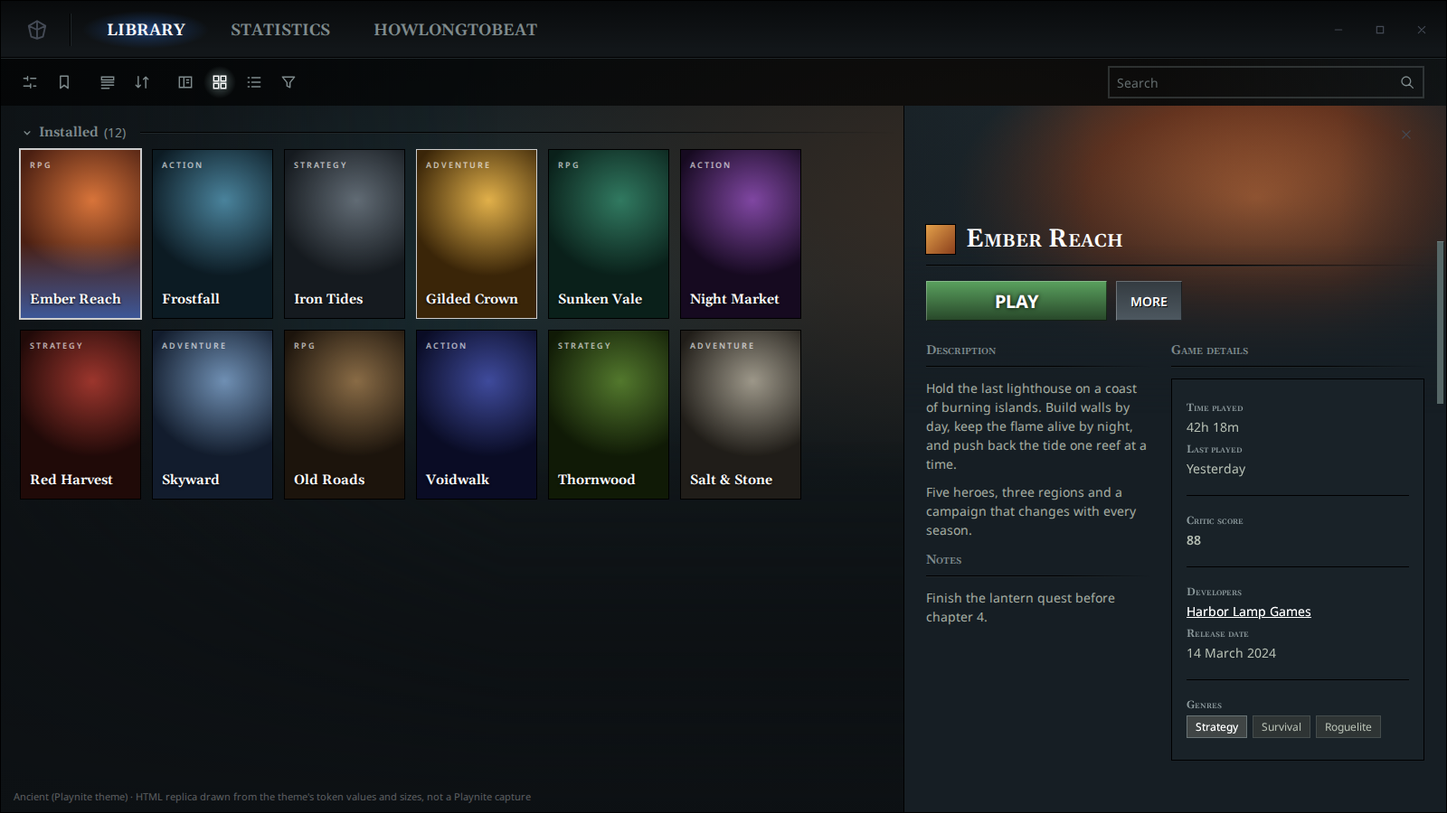
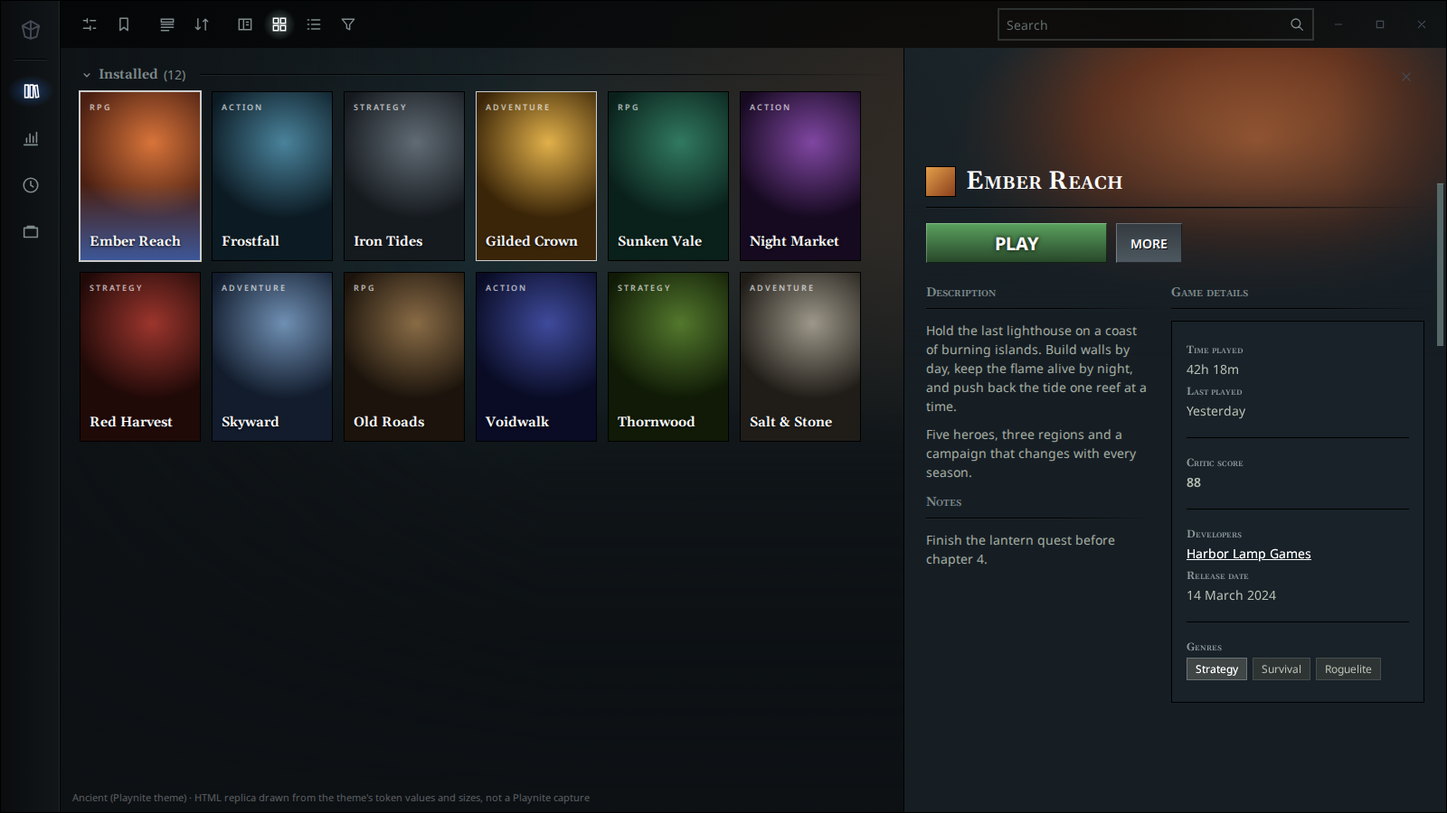
Put navigation on the left rail for Ancient and Uplink, add repo rule
- Repo rule (AGENTS.md, themes AGENTS.md, theme-dev skill): themes are
  designed for Playnite's default Sidebar position, Left; top/bottom are
  fallbacks and no theme asks users to move the sidebar
- Ancient and Uplink: left rail is now the intended layout in docs,
  listings and README; Ancient shell comments and grid preview updated

Claude-Session: https://claude.ai/code/session_015JUQFYYYRQcKnHXKVAwwSc

diff --git a/src/themes/Ancient/src/Views/Sidebar.xaml b/src/themes/Ancient/src/Views/Sidebar.xaml
@@ -1,11 +1,12 @@
 <!--
     Overlay on Playnite Default/Views/Sidebar.xaml.
-    The Dota 2 dashboard top bar ([CSS] dashboard.css #TopBar, #TopBarMainContent, #TopBarMainNav). Intended layout:
-    Sidebar position = Top. Then it is a 64px band across the window (the game's tabs are 60px): the slate bar
-    (ShellBackgroundBrush) shading darker toward its top, a paired rule under it (1px black, 1px faint light, as the
-    game's #VerticalSeparator), the home button at the left, a paired vertical separator, then the tabs
-    (SidebarItem.xaml). 146px on the right stay clear for the caption buttons.
-    Left and right make a 64px icon rail with the same slate; bottom is a strip.
+    The Dota 2 dashboard top bar ([CSS] dashboard.css #TopBar, #TopBarMainContent, #TopBarMainNav) turned on its side:
+    navigation lives on the left (repo rule, Playnite's default Sidebar position). A 64px rail in the top bar's slate
+    (ShellBackgroundBrush) shading darker toward the window edge, a paired rule on the library side (1px black, 1px
+    faint light, as the game's #VerticalSeparator), the home button at the top, the separator under it, then the
+    items (SidebarItem.xaml) with the game's blue glow behind the current one.
+    Fallbacks: right mirrors the rail; top and bottom make the game's horizontal bar with uppercase tabs (146px kept
+    clear for the caption buttons at the top).
     PART_ElemMainMenu and PART_PanelSideBarItems are Playnite's parts.
 -->
 <ResourceDictionary xmlns="http://schemas.microsoft.com/winfx/2006/xaml/presentation"

diff --git a/src/themes/Ancient/src/CustomControls/SidebarItem.xaml b/src/themes/Ancient/src/CustomControls/SidebarItem.xaml
@@ -1,13 +1,14 @@
 <!--
     Overlay on Playnite Default/CustomControls/SidebarItem.xaml.
-    A top bar tab of the Dota 2 dashboard ([CSS] dashboard.css .TopBarMenuItem):
-    - Top or bottom bar: the title only, uppercase in the title font, 18px semibold ([CSS] font-size 18px,
+    A top bar tab of the Dota 2 dashboard ([CSS] dashboard.css .TopBarMenuItem), on the left rail:
+    - Left or right rail (the intended layout): icon only, 64x52, muted at rest ([CSS] #777f88), white on hover,
+      white over the blue glow when current; the title is the tooltip.
+    - Top or bottom bar (fallback): the title only, uppercase in the title font, 18px semibold ([CSS] font-size 18px,
       font-family titleFont, font-weight semi-bold, text-transform uppercase), centered in a cell at least 140px wide
       ([CSS] #TopBarHeroes width 164px) with 24px either side. Muted grey at rest ([CSS] color #777f88: TextBrushDarker);
       white under the pointer ([CSS] :hover color white); white with a blue glow behind it when current
       ([CSS] :selected text-shadow 0 0 20px #3382ff: SidebarItemSelectedGlowBrush as a radial wash, since WPF text
       has no glow). No dividers, no underline: the game marks the current tab by the glow alone.
-    - Left or right rail: icon only, 64x52, the same glow behind the icon; the title is the tooltip.
     Library and Statistics get this theme's icons; add-on items keep their own icon. PART_ProgressStatus is a 2px bar
     along the edge facing the library.
 -->

diff --git a/src/themes/Ancient/src/Views/TopPanel.xaml b/src/themes/Ancient/src/Views/TopPanel.xaml
@@ -4,8 +4,8 @@
     #TopBarSearchContainer): a 52px black band (TopPanelBackgroundBrush, [CSS] #000000aa) that thins out toward the
     right. Playnite's view, sort, group and filter buttons are icons in the strip's muted teal-grey at the left, where
     the game puts its secondary tabs; the search box sits at the right like the game's (350px, [CSS] #TopBarSearchBox).
-    While the sidebar is not at the top this is the topmost bar, so 146px stay clear on the right for the caption
-    buttons. The main menu button shows here only while the sidebar is hidden. All PART_ names are Playnite's.
+    With the sidebar on the left (the intended layout) this is the topmost bar, so 146px stay clear on the right for
+    the caption buttons. The main menu button shows here only while the sidebar is hidden. All PART_ names are Playnite's.
 -->
 <ResourceDictionary xmlns="http://schemas.microsoft.com/winfx/2006/xaml/presentation"
                     xmlns:x="http://schemas.microsoft.com/winfx/2006/xaml">

diff --git a/src/themes/Ancient/src/DerivedStyles/MainWindowStyle.xaml b/src/themes/Ancient/src/DerivedStyles/MainWindowStyle.xaml
@@ -1,7 +1,7 @@
 <!--
     Overlay on Playnite Default/DerivedStyles/MainWindowStyle.xaml (the main window only).
-    Playnite's template with square caption buttons in the top right corner, over whichever bar is topmost (the 64px
-    top bar with the sidebar at the top, else the 52px strip; both keep 146px clear): 46x40, line icons in the gear
+    Playnite's template with square caption buttons in the top right corner of the 52px strip (the topmost bar with
+    the sidebar on the left; the 64px bar in the top fallback; both keep 146px clear): 46x40, line icons in the gear
     grey of the dashboard's top bar buttons ([CSS] #DOTASettingsButton #444a55, hover #9999aa: TextBrushDarker, then
     TextBrush), the game's GC-warning red behind close on hover.
 -->

diff --git a/src/themes/Ancient/AGENTS.md b/src/themes/Ancient/AGENTS.md
@@ -6,7 +6,7 @@ Playnite **Desktop** theme (`ThemeApiVersion` 2.9.0, Playnite 10.45+) after the 
 
 Shared anatomy (file map, shell rules, game page skeleton, metadata pane, build and first-run checks): **`../AGENTS.md`**. Loading rules and build checks: **`.claude/skills/playnite-theme-dev/reference.md`**.
 
-**Intended layout: Settings → Appearance → Layout → Sidebar position = Top.** The sidebar becomes the dashboard's top bar. Left, right and bottom still work (an icon rail, or a bottom strip).
+**Intended layout: the sidebar on the left** (Playnite's default; repo rule): the dashboard's top bar turned into a 64px rail. Right mirrors it; top and bottom still draw the game's horizontal bar with uppercase tabs as a fallback.
 
 ## Sources
 
@@ -72,11 +72,11 @@ Keys this theme added to `scripts/data/theme-keys.json`: **`BevelLightBrush`**, 
 
 | File | Behavior |
 |------|----------|
-| `Views/Sidebar.xaml` | **Top:** the top bar, 64px, slate shaded darker at the top, paired rule under it (black then faint light); home button (`MainMenuButton`, keystone glyph in the gear grey, lighter on hover), the game's paired vertical separator, then the tabs; 146px clear for caption buttons. **Left/right:** 64px icon rail, shade running sideways. **Bottom:** strip. |
-| `CustomControls/SidebarItem.xaml` | **Top/bottom:** title only, uppercase via `StringToUpperCaseConverter`, title font 18px semibold, min 140px wide, 24px either side; muted at rest, white on hover, white over a radial `#3382ff` glow when current. No dividers or underline, like the game. **Rails:** icon only, 64x52, same glow. |
-| `Views/TopPanel.xaml` | The black secondary strip, 52px, fading from full to 40% at the right; view, group, sort and filter icons at the left in the muted grey (white on hover and when on, a faint teal-grey glow behind toggled ones); notifications and a 350px search box at the right. Keeps 146px clear only when it is the topmost bar. |
+| `Views/Sidebar.xaml` | **Left (intended):** a 64px rail in the top bar's slate, shaded darker toward the window edge, paired rule on the library side; home button at the top, the paired separator under it, then the items. **Right:** mirrored. **Top (fallback):** the top bar, 64px, slate shaded darker at the top, paired rule under it (black then faint light); home button (`MainMenuButton`, keystone glyph in the gear grey, lighter on hover), the game's paired vertical separator, then the tabs; 146px clear for caption buttons. **Bottom:** strip. |
+| `CustomControls/SidebarItem.xaml` | **Rails (intended):** icon only, 64x52, muted at rest, white on hover, white over the blue glow when current; title as tooltip. **Top/bottom (fallback):** title only, uppercase via `StringToUpperCaseConverter`, title font 18px semibold, min 140px wide, 24px either side; muted at rest, white on hover, white over a radial `#3382ff` glow when current. No dividers or underline, like the game. |
+| `Views/TopPanel.xaml` | The black secondary strip, 52px, fading from full to 40% at the right; view, group, sort and filter icons at the left in the muted grey (white on hover and when on, a faint teal-grey glow behind toggled ones); notifications and a 350px search box at the right. Keeps 146px clear for the caption buttons when it is the topmost bar (the intended left-rail layout). |
 | `Views/Library.xaml` | The game's background art fills the whole library layer, the strip included (like the dashboard scene behind its bars), faded left and down, dimmed, and a radial vignette in the layer's brush. |
-| `DerivedStyles/MainWindowStyle.xaml` | Caption buttons 46x40 in the gear grey, 12px from the top with the sidebar at the top (centred on the 64px bar), red close hover. |
+| `DerivedStyles/MainWindowStyle.xaml` | Caption buttons 46x40 in the gear grey, centred on the 52px strip (12px from the top in the top-bar fallback), red close hover. |
 | `Views/FilterPanelView.xaml`, `ExplorerPanel.xaml` | Playnite's panels on the chat-panel slate so they read over the art. |
 
 ## Game page
@@ -117,4 +117,4 @@ Follows the shared skeleton, generated by `art/overview.py` (edit it, then rerun
 
 **Never loaded in Playnite.** Built on Linux: `build-theme.ps1` and `validate-extension.ps1` pass (static checks), but WPF never parsed it. `art/preview-grid.png` is an HTML replica of the grid view drawn with the same token values and sizes and rendered in Chromium, not a Playnite capture. Take real screenshots (`info/screenshots/`) before a database PR.
 
-First run, most likely to need a fix: the uppercase converter on sidebar titles; the tab glow at the top and bottom positions; the black strip over the art (Library puts `TopPanel` inside the art grid); caption buttons over the 64px bar; `BevelTemplate` shading at small heights; the checked tick box ring and halo; and every `[eye]` value in `tokens.css`.
+First run, most likely to need a fix: the rail glow behind the current item; the uppercase converter and tab glow in the top/bottom fallback; the black strip over the art (Library puts `TopPanel` inside the art grid); caption buttons over the 64px bar; `BevelTemplate` shading at small heights; the checked tick box ring and halo; and every `[eye]` value in `tokens.css`.

diff --git a/src/themes/Uplink/AGENTS.md b/src/themes/Uplink/AGENTS.md
@@ -6,7 +6,7 @@ Playnite **Desktop** theme (`ThemeApiVersion` 2.9.0, Playnite 10.45+) taking ins
 
 Shared anatomy (file map, shell rules, game page skeleton, metadata pane, build and first-run checks): **`../AGENTS.md`**. Loading rules and build checks: **`.claude/skills/playnite-theme-dev/reference.md`**.
 
-**Intended layout: Settings → Appearance → Layout → Sidebar position = Top.** That turns the sidebar into the game's navigation bar. Left, right and bottom still work (an icon rail, or a bottom strip).
+**Intended layout: the sidebar on the left** (Playnite's default; repo rule): a 56px navigation rail with the glow and lit line on the current item. Right mirrors it; top and bottom still draw the game's horizontal navigation bar as a fallback.
 
 ## Sources
 
@@ -64,10 +64,10 @@ New shared key this theme added to `scripts/data/theme-keys.json`: **`ChamferTem
 
 | File | Behavior |
 |------|----------|
-| `Views/Sidebar.xaml` | **Top:** the navigation bar, 56px, `ShellBackgroundBrush` with the glow rising toward the 1px bottom line; the home button (`MainMenuButton`, `PART_ElemMainMenu`, 56px plate with a hexagon mark) boxed at the left; 146px kept clear for the caption buttons. **Left/right:** a 56px rail with the same glow running sideways. **Bottom:** a strip. |
+| `Views/Sidebar.xaml` | **Left (intended):** a 56px rail, the glow running sideways, home button at the top. **Top (fallback):** the navigation bar, 56px, `ShellBackgroundBrush` with the glow rising toward the 1px bottom line; the home button (`MainMenuButton`, `PART_ElemMainMenu`, 56px plate with a hexagon mark) boxed at the left; 146px kept clear for the caption buttons. **Right:** the rail mirrored. **Bottom:** a strip. |
 | `CustomControls/SidebarItem.xaml` | **Top/bottom:** icon + title in uppercase heading sans (15px, Playnite's `StringToUpperCaseConverter`), 20px either side, short 1px dividers; `TextBrushDarker` at rest; hover and current = white over a blue glow (`FrameInnerBrush`) rising from the bar's bottom edge; current adds a 2px beam (`TabItemIndicatorBrush`) that fades out at both ends. **Rails:** icon only, 56x48, glow from the library-side edge and a 1px beam there; title as tooltip. |
-| `Views/TopPanel.xaml` | The sub navigation strip: 48px on `TopPanelBackgroundBrush`, 1px line under it; search (320px) left; view, sort, filter, notification icons right, `TextBrushDarker`, light blue on a glow wash when on. Keeps 146px clear for the caption buttons only when it is the topmost bar (sidebar not at the top). |
-| `DerivedStyles/MainWindowStyle.xaml` | Caption buttons 46x40, 8px from the top with the sidebar at the top (centered on the 56px bar), 4px otherwise; red close hover. |
+| `Views/TopPanel.xaml` | The sub navigation strip: 48px on `TopPanelBackgroundBrush`, 1px line under it; search (320px) left; view, sort, filter, notification icons right, `TextBrushDarker`, light blue on a glow wash when on. Keeps 146px clear for the caption buttons when it is the topmost bar (the intended left-rail layout). |
+| `DerivedStyles/MainWindowStyle.xaml` | Caption buttons 46x40, 4px from the top over the 48px strip (the intended left-rail layout; 8px, centred on the 56px bar, in the top fallback); red close hover. |
 | `Views/Library.xaml`, `FilterPanelView.xaml`, `ExplorerPanel.xaml`, `SearchView.xaml` | Library layer on `deck`, the game's background art feathered in; side panels on `hull`. |
 
 ## Game page
@@ -102,4 +102,4 @@ The rest (TextBox, PasswordBox, ScrollViewer, ProgressBar, TabControl, Expander,
 
 **Never loaded in Playnite.** It was built on Linux: `build-theme.ps1` and `validate-extension.ps1` pass (static checks: file paths, keys, types, placeholders, cross-file references, well-formed XAML), but WPF never parsed it, so a XAML error that only shows at load time would make Playnite fall back to Default and log it in `playnite.log`. `art/preview-grid.png` is an HTML replica of the grid view drawn with the same token values and sizes, rendered in Chromium, not a Playnite capture (fonts stand in: Barlow for Bahnschrift, Open Sans for Segoe UI). Take real screenshots (`info/screenshots/`) before a database PR.
 
-First run, most likely to need a fix: the uppercase converter binding on `SidebarItem` titles; the chamfer plates at small sizes (the 6px corner cells need at least 12px of height); the tab glow and beam with the sidebar at the top and at the bottom; the flipped glow on a right-hand rail; caption buttons over the 56px bar and the 48px strip; `Typography.Capitals` with the installed heading font; and every `[eye]` value in `tokens.css`.
+First run, most likely to need a fix: the uppercase converter binding on `SidebarItem` titles; the chamfer plates at small sizes (the 6px corner cells need at least 12px of height); the rail glow and beam on the left (the intended layout) and the tab glow in the top/bottom fallback; the flipped glow on a right-hand rail; caption buttons over the 56px bar and the 48px strip; `Typography.Capitals` with the installed heading font; and every `[eye]` value in `tokens.css`.

diff --git a/AGENTS.md b/AGENTS.md
@@ -24,8 +24,8 @@ This repository is a reusable **Playnite add-on monorepo** for two kinds of add-
 - **Launchpad** (`launchpad`) — Desktop theme, theme API 2.9.0, a dark game-launcher look inspired by the Battle.net app (approximated, not sampled) with a top app bar, game list and game page. Notes in **`src/themes/Launchpad/AGENTS.md`**.
 - **Codex** (`codex`) — Desktop theme, theme API 2.9.0, charcoal, ivory and gold inspired by the RPG-era Assassin's Creed menus: a tab strip on top, entry-style game info screens, original hairline icons. Unofficial (no Ubisoft assets). Notes in **`src/themes/Codex/AGENTS.md`**.
 - **Questlog** (`questlog`) — Desktop theme, theme API 2.9.0, fantasy RPG look inspired by the World of Warcraft Vanilla interface (gold frames, red leather buttons, tooltip navy, quest log game page); unofficial, original artwork only, no game files. Notes in **`src/themes/Questlog/AGENTS.md`**.
-- **Uplink** (`uplink`) — Desktop theme, theme API 2.9.0, sci-fi look inspired by the StarCraft II menus (two-tier navigation bar when the sidebar is at the top, lit blue tabs, cut-corner plates, blue glows; text colors from the game's UI style data); unofficial, original artwork only, no game files. Notes in **`src/themes/Uplink/AGENTS.md`**.
-- **Ancient** (`ancient`) — Desktop theme, theme API 2.9.0, inspired by the Dota 2 main menu (slate top bar with uppercase tabs and a blue glow on the current one when the sidebar is at the top, black secondary strip, bevelled grey buttons, green Play button; values read from the game's Panorama CSS); unofficial, original artwork only, no game files. Notes in **`src/themes/Ancient/AGENTS.md`**.
+- **Uplink** (`uplink`) — Desktop theme, theme API 2.9.0, sci-fi look inspired by the StarCraft II menus (navigation rail on the left with a lit current item, sub navigation strip on top, cut-corner plates, blue glows; text colors from the game's UI style data); unofficial, original artwork only, no game files. Notes in **`src/themes/Uplink/AGENTS.md`**.
+- **Ancient** (`ancient`) — Desktop theme, theme API 2.9.0, inspired by the Dota 2 main menu (slate navigation rail on the left with a blue glow on the current item, black secondary strip on top, bevelled grey buttons, green Play button; values read from the game's Panorama CSS); unofficial, original artwork only, no game files. Notes in **`src/themes/Ancient/AGENTS.md`**.
 
 ## Repository layout
 
@@ -70,6 +70,7 @@ The package flow is intentionally **package-only**: it creates `.pext` (plugins)
 - **Build after every change** to an add-on's code, XAML or manifest, and report the result in the skill's reply footer. Themes: build **and deploy to Playnite** every time (`.\scripts\build-theme.ps1 -Extension <key> -Deploy`), then tell the user to restart Playnite (themes load at startup only). Plugins have no deploy step: build, and remind the user to replace the DLL and restart Playnite if they want to test it.
 - **Localization:** new or changed user-visible strings go into `en_US.xaml` **and** every other `Localization/*.xaml`, translated (skill `playnite-plugin-dev`).
 - **Settings UI:** Playnite stock controls only, Autogrid `SettingsView` is the baseline; dependent options nest under their checkbox (skill `playnite-plugin-dev`).
+- **Navigation on the left:** every theme is designed for Playnite's default Sidebar position, **Left**: the sidebar (main menu button, Library, Statistics, add-on views) is a vertical rail at the window's left edge, and that is the layout a theme's design, docs, listing and screenshots show. Top, bottom and right keep working as fallbacks, but no theme depends on them or asks users to move the sidebar. The top panel stays the view controls bar.
 - **Add-on tile icons are orange:** every `info/icon.png` uses the script's default mark color (`#FF7A1A`, the projects-page orange), whatever the theme's own palette. Never pass `-Color`/`--color`; only the mark (`art/mark.svg`, original artwork) differs between add-ons.
 - **Themes:** keys come from Playnite + `scripts/data/theme-keys.json`; brushes only, never `Color` keys (skill `playnite-theme-dev`).
 

diff --git a/.claude/skills/playnite-theme-dev/SKILL.md b/.claude/skills/playnite-theme-dev/SKILL.md
@@ -26,7 +26,7 @@ Every edit under `src/themes/<Theme>/` ends with `.\scripts\build-theme.ps1 -Ext
 4. **`src/Constants.template.xaml`:** replace each `{{TODO}}` with the token that plays that key's role (the build fails until all are mapped). Map by role: `GlyphColor` = selection/checked accent, `TextColorDark` = text on accent, `HoverBrush` = hover fill, `SelectedBrush` = selected fill. Add optional shared keys as controls need them and the radius scale (`CornerRadiusSmall`/`Large`/`XLarge`/`Full`; `ControlCornerRadius` is the medium step). Brushes only in controls.
 5. **`src/Common.xaml`:** `PopupBorder`, `FocusVisual`, spacing keys (`ButtonPadding`, `InputPadding`, `MenuPadding`, `MenuItemPadding`, `ComboBoxDropDownPadding`, `ComboBoxItemPadding`, `ListBoxItemPadding`, `GroupBoxPadding`, `TooltipPadding`, `IconSize`), each with a comment quoting the spec.
 6. **`src/Media.xaml`:** the icon set as `Icon<Role>` geometries drawn by `IconTemplate` (`IconSearch`, `IconClear`, `IconViewSettings`, `IconFilterPresets`, `IconGroup`, `IconSort`, `IconDetailsView`/`GridView`/`ListView`, `IconUpdate`, `IconExplorer`, `IconRandom`, `IconViewRandom`, `IconFilter`, `IconNotifications`, `IconMainMenu`, `IconLibrary`, `IconStatistics`, `IconWindowMinimize`/`Maximize`/`Restore`/`Close`, plus `IconDropDown`, `IconSubmenu`, `IconCheck` as needed). Generate: `.\scripts\render-icons.ps1 -Pack <pack> -Icons search,x=Clear,three-bars=MainMenu -Format Geometry -KeyPrefix Icon` (stroked packs such as Lucide/Tabler need `-Format DrawingImage`). Playnite's own menu icons (`AddGameIcon`, `SettingsIcon`...) go in `src/themes/<Theme>/icons.json` as `Png` jobs mapped to `sys:String` paths (see Primer's `Media.xaml`/`icons.json`), then `.\scripts\render-icons.ps1 -Extension <key>`. Ship the icon license in `info/`.
-7. **Shell:** `Views/MainWindow.xaml`, `Views/Sidebar.xaml`, `Views/TopPanel.xaml`, `DerivedStyles/MainWindowStyle.xaml`, `CustomControls/SidebarItem.xaml`, `CustomControls/TopPanelItem.xaml` (optionally `Views/Library.xaml`). Start each from Playnite's Default file, keep every `PART_*`, reserve the window buttons' width on the top bar's right. Shared shell keys: styles `MainMenuButton`, `MainWindowButton`, `TopPanelSearchBox`; brushes `ShellBackgroundBrush`, `TopPanelBackgroundBrush`, `ContentBackgroundBrush`.
+7. **Shell:** `Views/MainWindow.xaml`, `Views/Sidebar.xaml`, `Views/TopPanel.xaml`, `DerivedStyles/MainWindowStyle.xaml`, `CustomControls/SidebarItem.xaml`, `CustomControls/TopPanelItem.xaml` (optionally `Views/Library.xaml`). Start each from Playnite's Default file, keep every `PART_*`, reserve the window buttons' width on the top bar's right. Navigation goes on the left: design the sidebar as a left rail (Playnite's default position); top/bottom are fallbacks only. Shared shell keys: styles `MainMenuButton`, `MainWindowButton`, `TopPanelSearchBox`; brushes `ShellBackgroundBrush`, `TopPanelBackgroundBrush`, `ContentBackgroundBrush`.
 8. **Controls:** for each, open the Default file at the snapshot's Playnite tag, keep structure and part names, restyle to the system's component (name it and its tokens in the file header). Usual set: Button, ToggleButton, RepeatButton, TextBox (+`BareTextBox`), PasswordBox, ComboBox, CheckBox, RadioButton, Slider (`SliderRangeButton`, `SliderThumb`; one-line SliderEx), ProgressBar, ScrollViewer (`ScrollBarThumb`)/Thumb, ToolTip, ContextMenu/Menu (one-line GameMenu, GameGroupMenu, TrayContextMenu), TabControl, GroupBox, ListBox, SearchBox, DetailsViewItemStyle, GridViewItemStyle, PlayButton, WindowBarButton, HighlightBorder.
    **Game page:** `Views/DetailsViewGameOverview.xaml` and `Views/GridViewGameOverview.xaml` follow the skeleton and metadata pane in `src/themes/AGENTS.md` -> Game page, dressed in the system's components.
 9. **Build:** `.\scripts\build-theme.ps1 -Extension mytheme -Deploy [-DeployPath <Themes folder>]`, restart Playnite, Settings -> Appearance -> Theme. Warns about required shared keys still missing.

diff --git a/README.md b/README.md
@@ -33,8 +33,8 @@ Each add-on has its own **GitHub Release** and installer (`.pext` for extensions
 | <img src="src/themes/Launchpad/info/icon.png" alt="Launchpad" width="80" height="80" /> | **Launchpad** (`launchpad`) | A dark game-launcher desktop theme with a top app bar, a game list next to a game page with full-width art, and a big blue Play button. Inspired by the Battle.net app; unofficial, not affiliated with Blizzard Entertainment; colors are approximated and no logos or icons are included. |
 | <img src="src/themes/Codex/info/icon.png" alt="Codex" width="80" height="80" /> | **Codex** (`codex`) | A dark desktop theme in charcoal, ivory and gold, with a tab strip along the top, diamond and corner-bracket marks, hairline icons, and entry-style game info screens. Inspired by the Assassin's Creed menus; unofficial, not affiliated with Ubisoft. |
 | <img src="src/themes/Questlog/info/icon.png" alt="Questlog" width="80" height="80" /> | **Questlog** (`questlog`) | A fan-made dark fantasy desktop theme: gold and bronze frames, red leather buttons, the navy tooltip, and a game page laid out like a quest log. Inspired by the World of Warcraft Vanilla interface; unofficial, not affiliated with Blizzard Entertainment; all artwork is original and no game files are included. |
-| <img src="src/themes/Uplink/info/icon.png" alt="Uplink" width="80" height="80" /> | **Uplink** (`uplink`) | A dark sci-fi desktop theme: a two-tier navigation bar with uppercase tabs and a lit line under the current one, cut-corner buttons, blue glows and a big lit Play button. Set the sidebar to the top for the full look. Inspired by the StarCraft II menus; unofficial, not affiliated with Blizzard Entertainment; all artwork is original and no game files are included. |
-| <img src="src/themes/Ancient/info/icon.png" alt="Ancient" width="80" height="80" /> | **Ancient** (`ancient`) | A dark desktop theme after the Dota 2 main menu: a slate top bar with uppercase tabs and a blue glow behind the current one, a black strip with search on the right, bevelled grey buttons and a big green Play button. Set the sidebar to the top for the full look. Inspired by Dota 2; unofficial, not affiliated with Valve; all artwork is original and no game files are included. |
+| <img src="src/themes/Uplink/info/icon.png" alt="Uplink" width="80" height="80" /> | **Uplink** (`uplink`) | A dark sci-fi desktop theme: a navigation rail on the left with a glow and a lit line on the current item, a sub navigation strip, cut-corner buttons, blue glows and a big lit Play button. Inspired by the StarCraft II menus; unofficial, not affiliated with Blizzard Entertainment; all artwork is original and no game files are included. |
+| <img src="src/themes/Ancient/info/icon.png" alt="Ancient" width="80" height="80" /> | **Ancient** (`ancient`) | A dark desktop theme after the Dota 2 main menu: a slate navigation rail on the left with a blue glow behind the current item, a black strip with search on the right, bevelled grey buttons and a big green Play button. Inspired by Dota 2; unofficial, not affiliated with Valve; all artwork is original and no game files are included. |
 
 ### Disclaimer
 

diff --git a/src/themes/AGENTS.md b/src/themes/AGENTS.md
@@ -44,7 +44,7 @@ Each theme lays the shell out its own way; the mechanics are the same:
 
 - **Window buttons** are drawn by `MainWindowStyle.xaml` (`MainWindowButton`). The top bar keeps their width clear on its right (plus a gap), and a sidebar docked at the top or bottom does the same. Change one, change the other.
 - **Main menu**: `PART_ElemMainMenu` uses `MainMenuButton`, in the sidebar; the top bar shows it only when the sidebar is hidden.
-- **Sidebar** supports all four of Playnite's positions (Settings → Appearance → Layout): left and right are vertical, top and bottom a strip.
+- **Sidebar** is designed for the **left** (Playnite's default; repo rule in `AGENTS.md`): a vertical rail at the window's left edge with the main menu button at its top. Right mirrors it; top and bottom are fallbacks drawn as a strip. No theme asks users to move the sidebar.
 - **Library background art** (`Views/Library.xaml`): where a theme feathers it, the `OpacityMask` sits inside a `BitmapCache` wrapper (as for every masked image).
 - **Layers**: at most three surfaces, named by shared keys: `ShellBackgroundBrush` (frame, rail), `TopPanelBackgroundBrush` (top bar), `ContentBackgroundBrush` (the library layer), on `WindowBackgourndBrush`.
 
@@ -58,8 +58,8 @@ Each theme lays the shell out its own way; the mechanics are the same:
 | Launchpad | Frame-colored icon rail and top app bar; game list beside a full-width-art game page |
 | Codex | Icon rail, a tab strip along the top, layered charcoal |
 | Questlog | Gold window frame, stone sidebar strip, transparent top bar |
-| Uplink | Sidebar at the top as a 56px navigation bar (uppercase tabs, glow and lit line on the current one), top panel as a 48px sub navigation strip |
-| Ancient | Sidebar at the top as a 64px slate top bar (uppercase title-font tabs, blue glow behind the current one), top panel as a 52px black strip with the view buttons left and search right, library art behind both |
+| Uplink | 56px navigation rail on the left (glow and lit line on the current item), top panel as a 48px sub navigation strip |
+| Ancient | 64px slate navigation rail on the left (blue glow behind the current item), top panel as a 52px black strip with the view buttons left and search right, library art behind the strip |
 
 ## Game page
 
